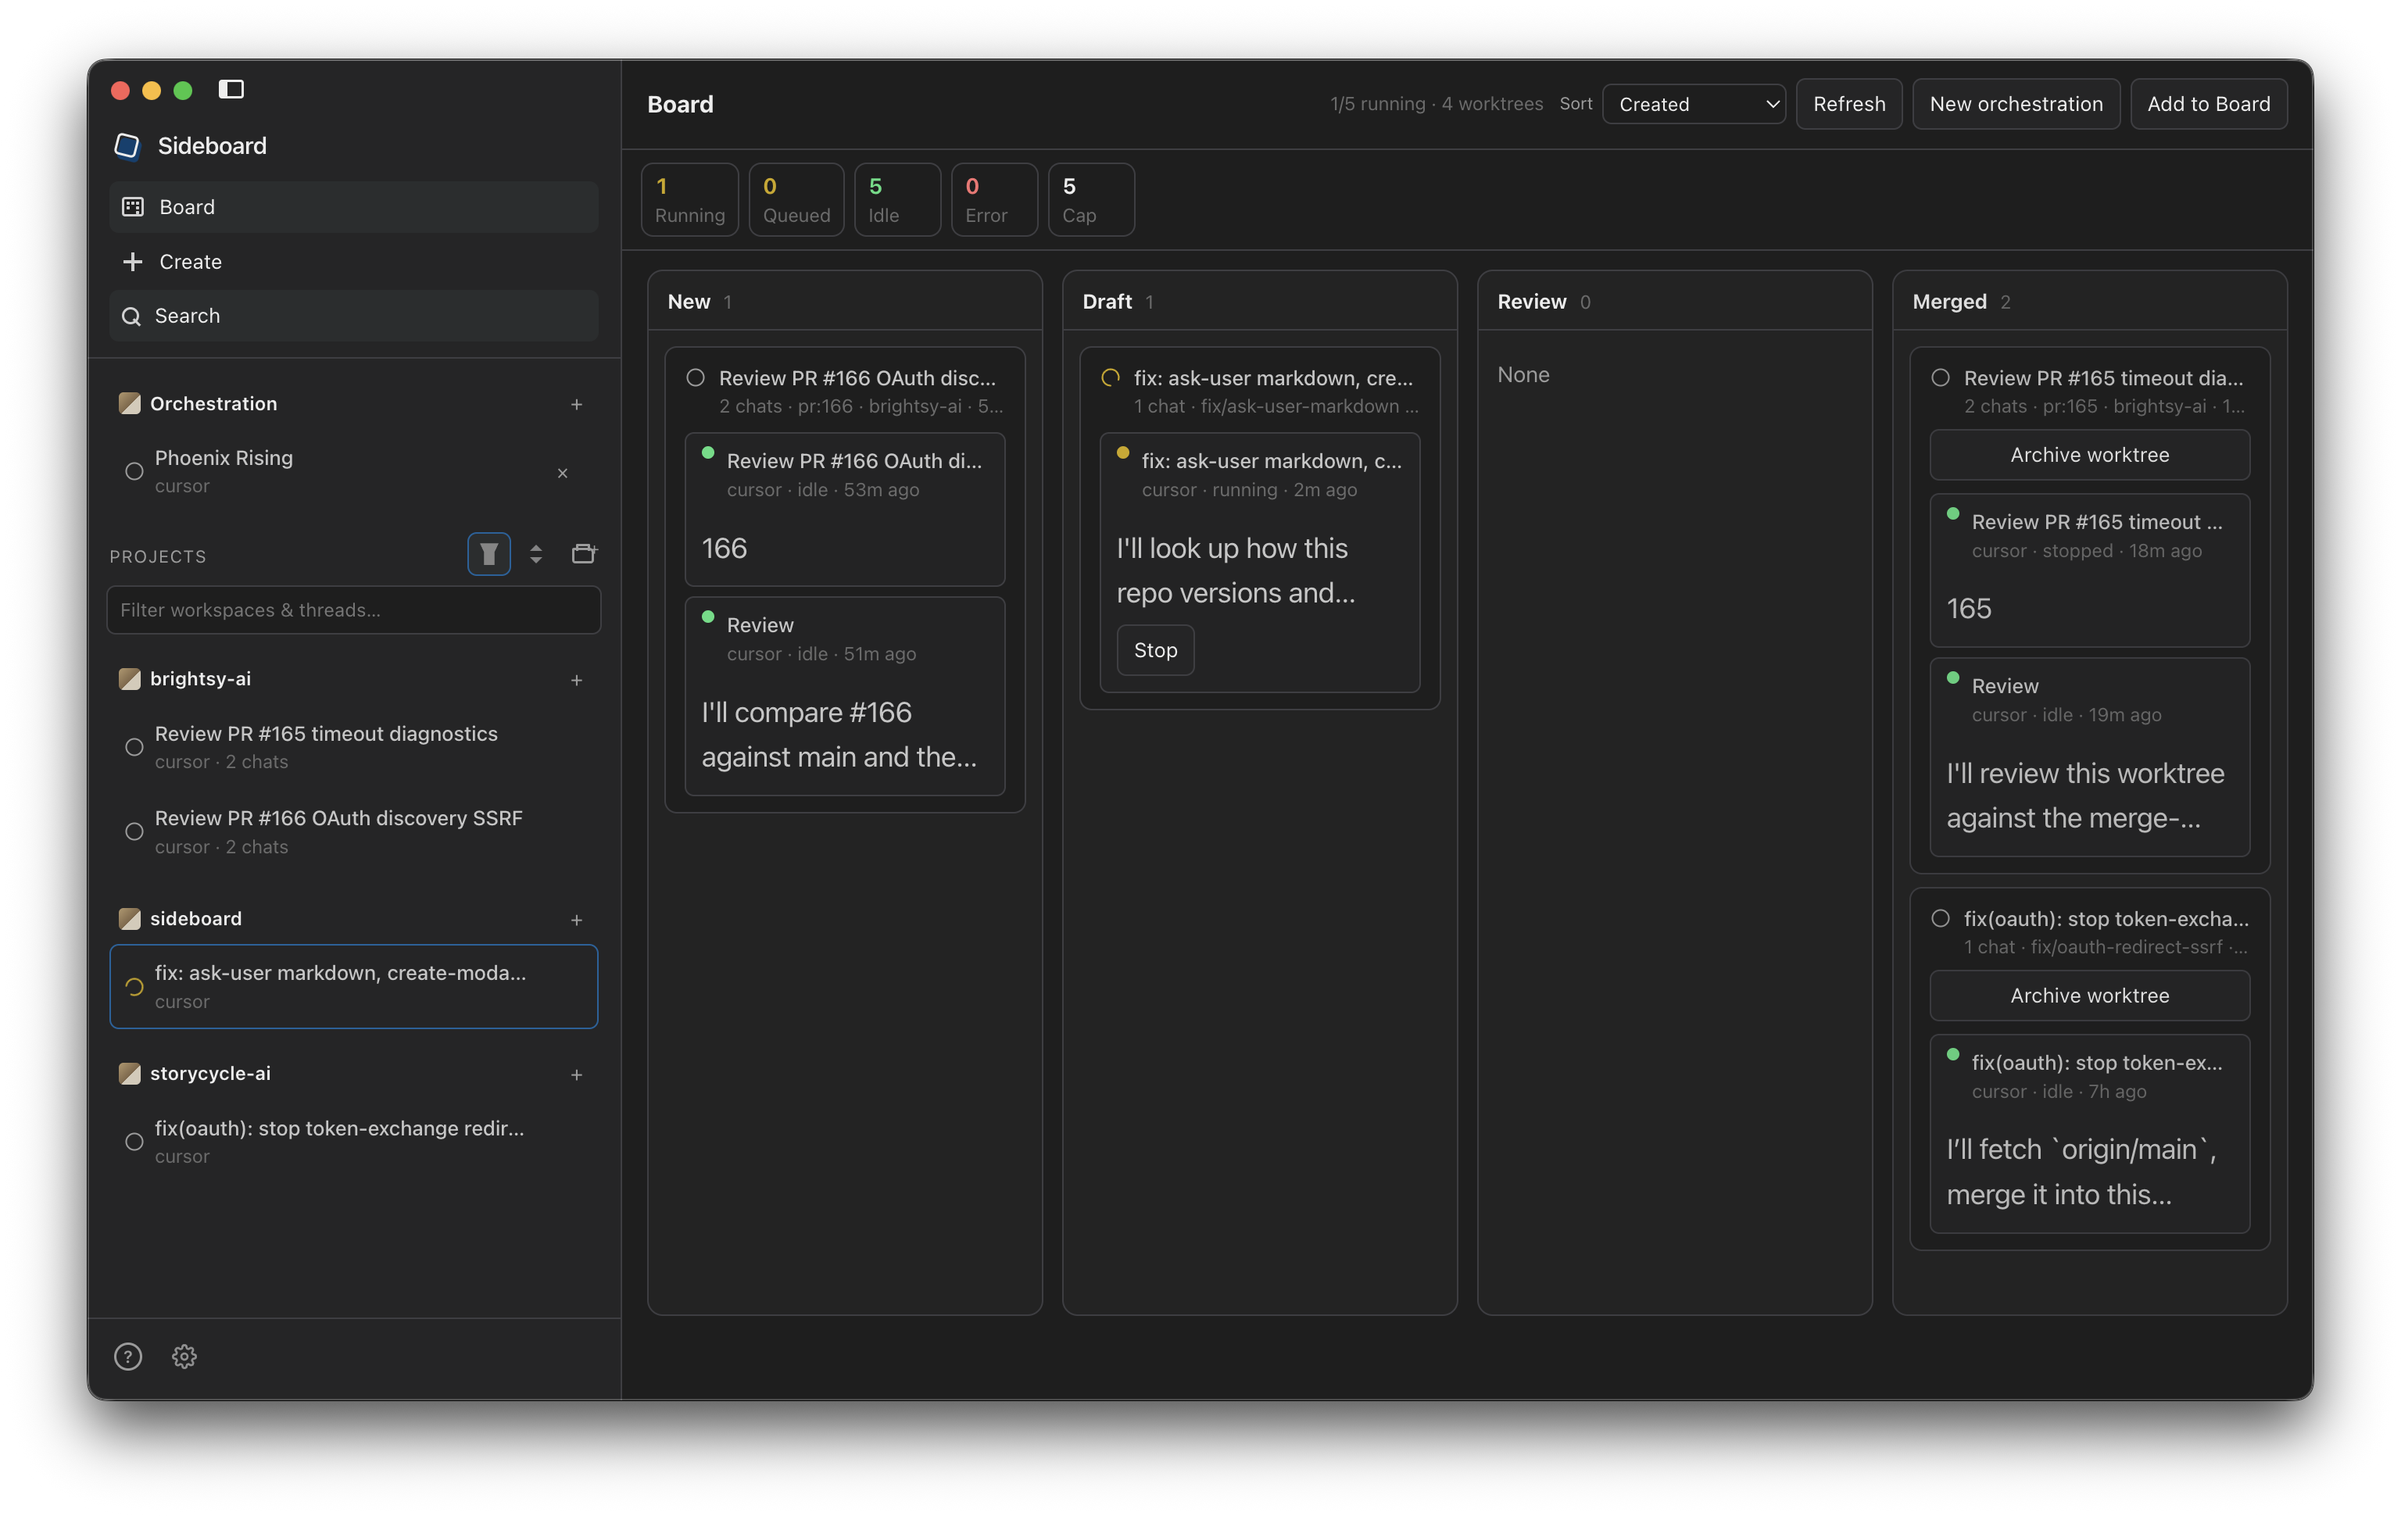
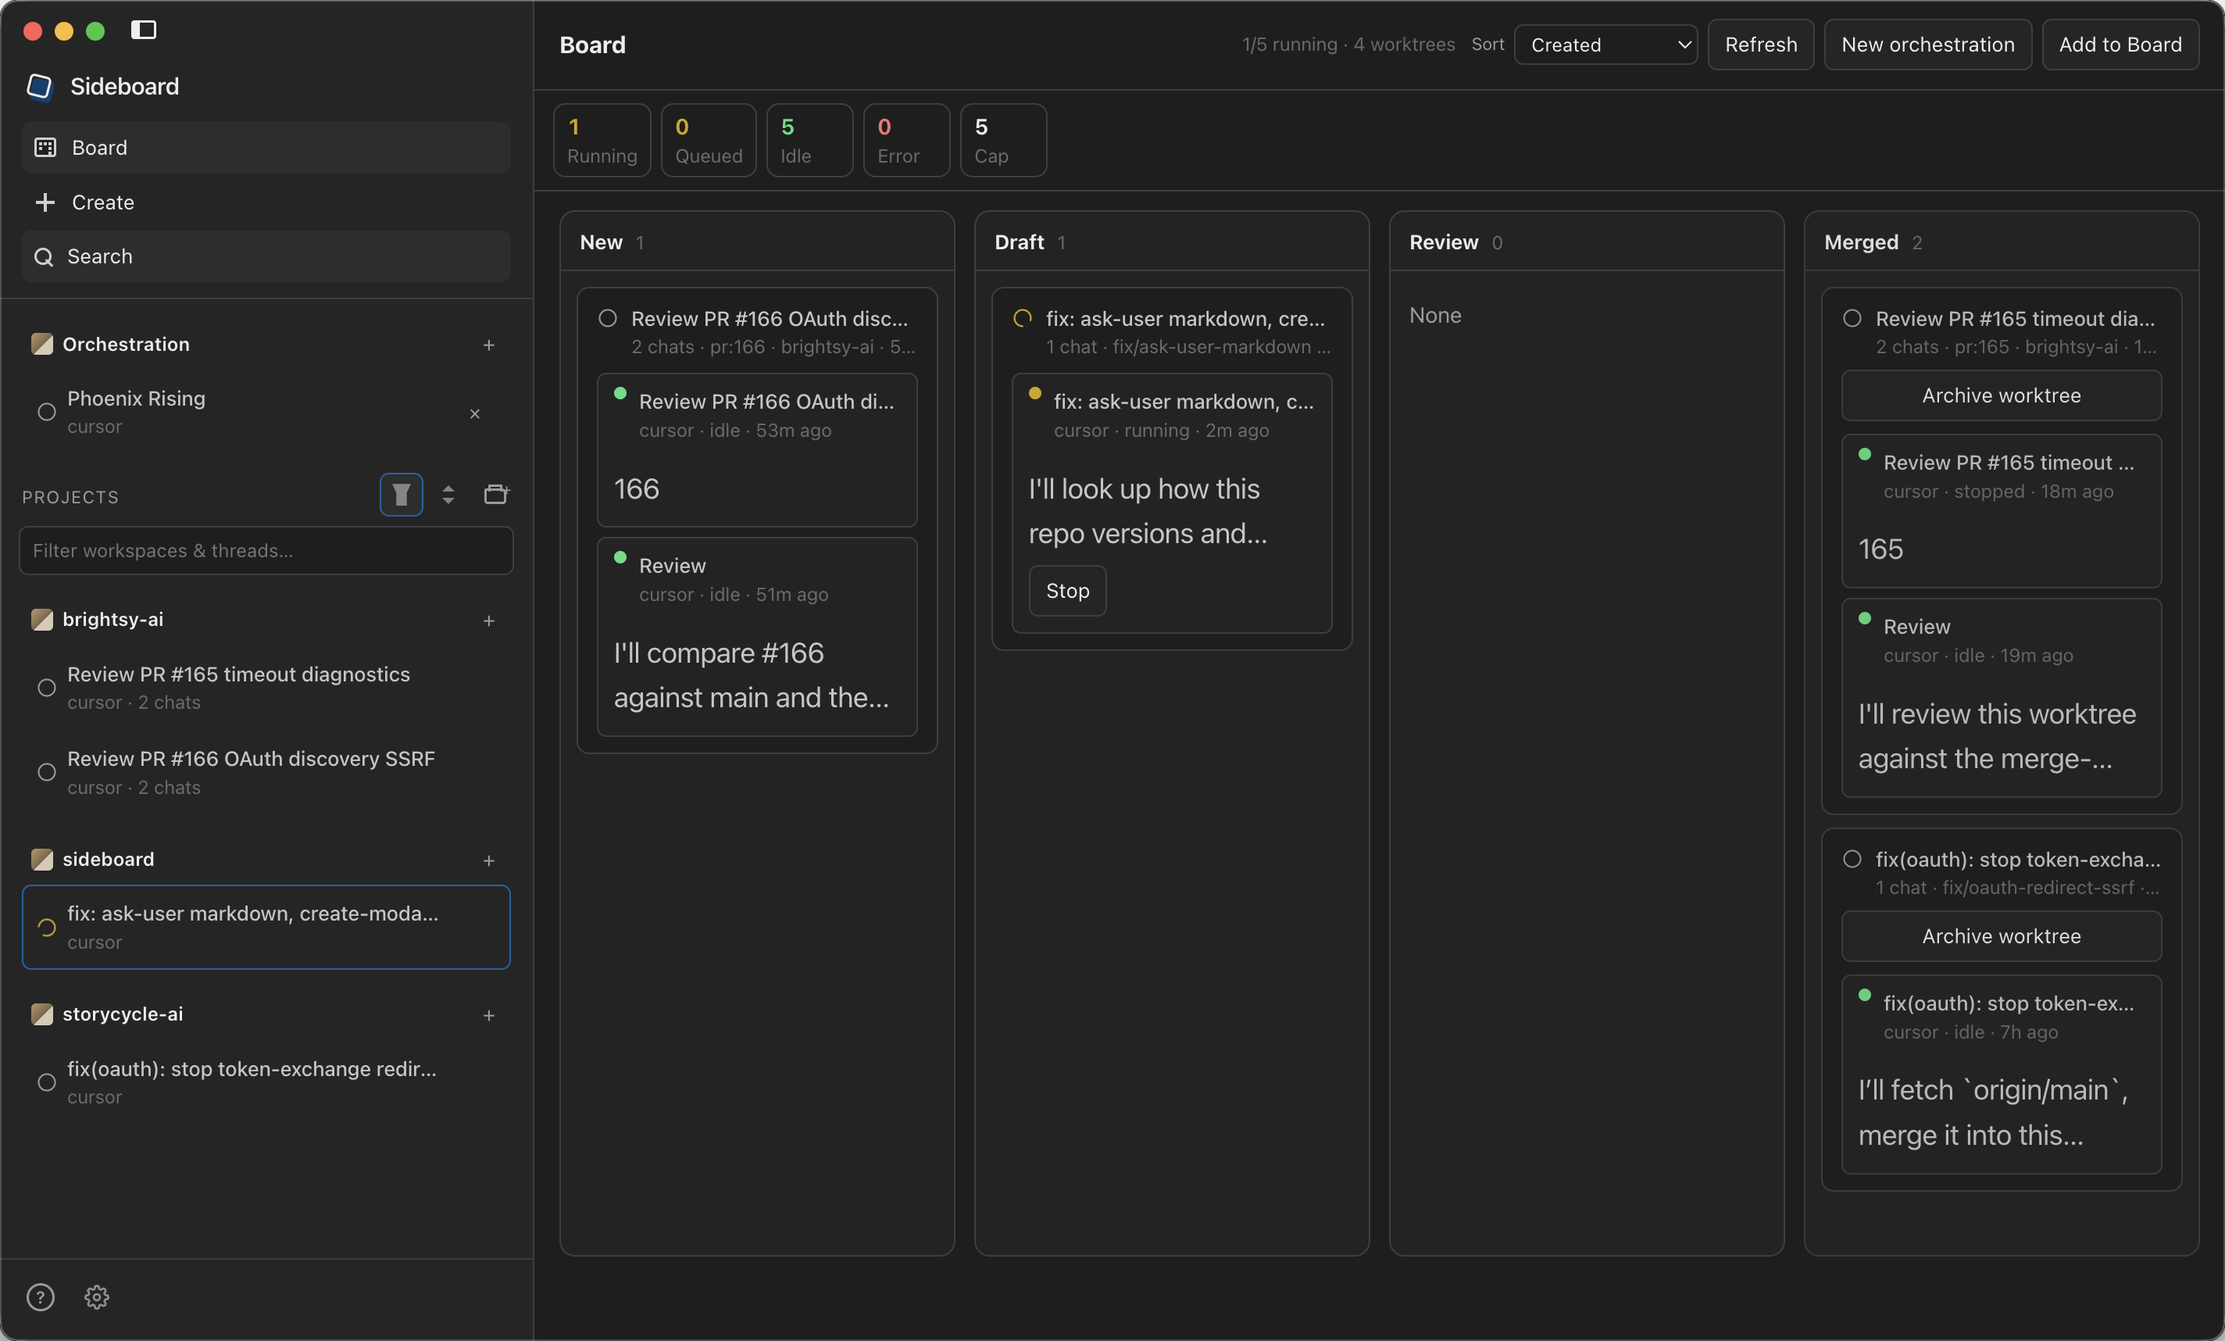
fix: crop homepage board shot flush to the window
The CSS frame already matches desktop.png; leftover screenshot padding drew a second inner border.

Changed region(s): [[0.0, 0.0, 1.0, 1.0], [0.625, 0.1544, 0.6875, 0.2471]]

diff --git a/site/index.html b/site/index.html
@@ -50,7 +50,7 @@
 </section>
 
 <section style="max-width:1180px;margin:0 auto;padding:56px 40px 0">
-<div style="border-radius:28px;overflow:hidden;border:1px solid #2c3036;box-shadow:0 24px 60px rgba(0,0,0,.45)"><img src="board.png" width="3072" height="1940" alt="Sideboard desktop — the global board of worktrees across New, Draft, Review, and Merged" style="display:block;width:100%;height:auto"></div>
+<div style="border-radius:28px;overflow:hidden;border:1px solid #2c3036;box-shadow:0 24px 60px rgba(0,0,0,.45)"><img src="board.png" width="2848" height="1716" alt="Sideboard desktop — the global board of worktrees across New, Draft, Review, and Merged" style="display:block;width:100%;height:auto"></div>
 <p style="font-size:13.5px;color:#8b949c;margin-top:14px">The global board: every worktree as a card — New, Draft, Review, Merged — with live status in the sidebar.</p>
 <div style="border-radius:28px;overflow:hidden;border:1px solid #2c3036;box-shadow:0 24px 60px rgba(0,0,0,.45);margin-top:28px"><img src="desktop.png" width="2830" height="1600" alt="Sideboard desktop — chat with a Document artifact preview, worktree files, and the run panel" style="display:block;width:100%;height:auto"></div>
 <p style="font-size:13.5px;color:#8b949c;margin-top:14px">One worktree chat: the agent thread in the middle, artifacts and schema tabs beside it, the git repo on the far right.</p>
